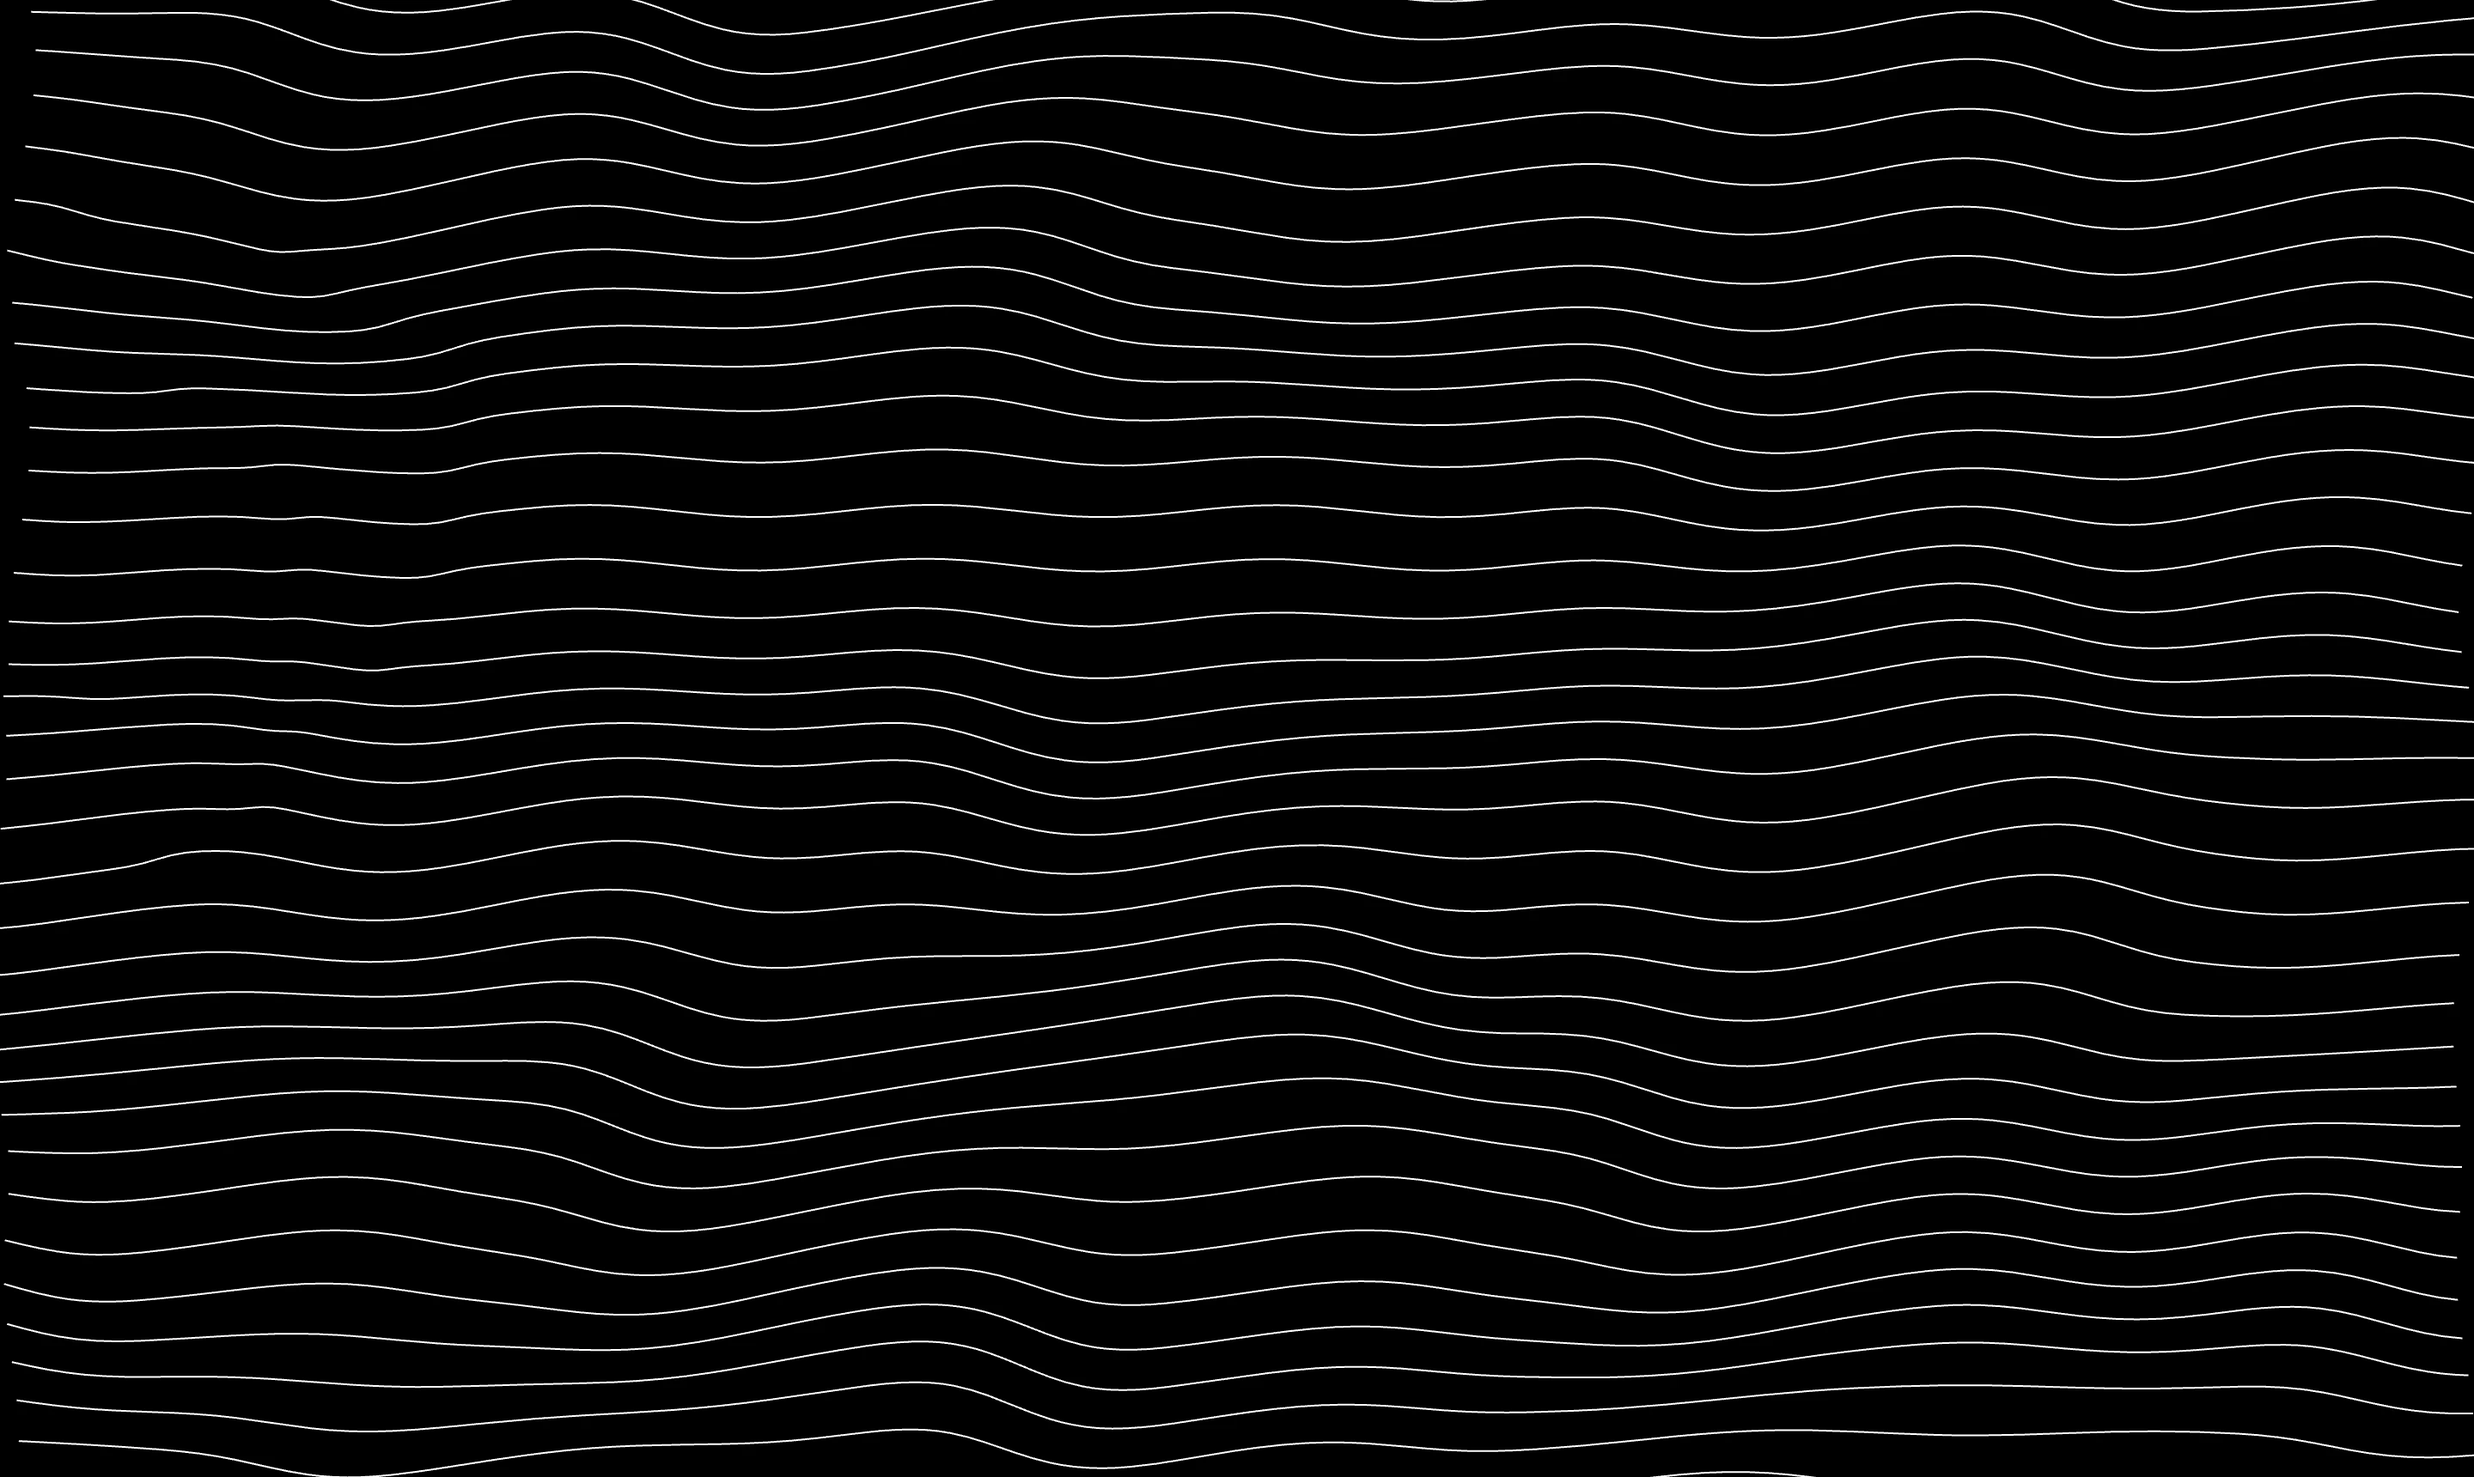
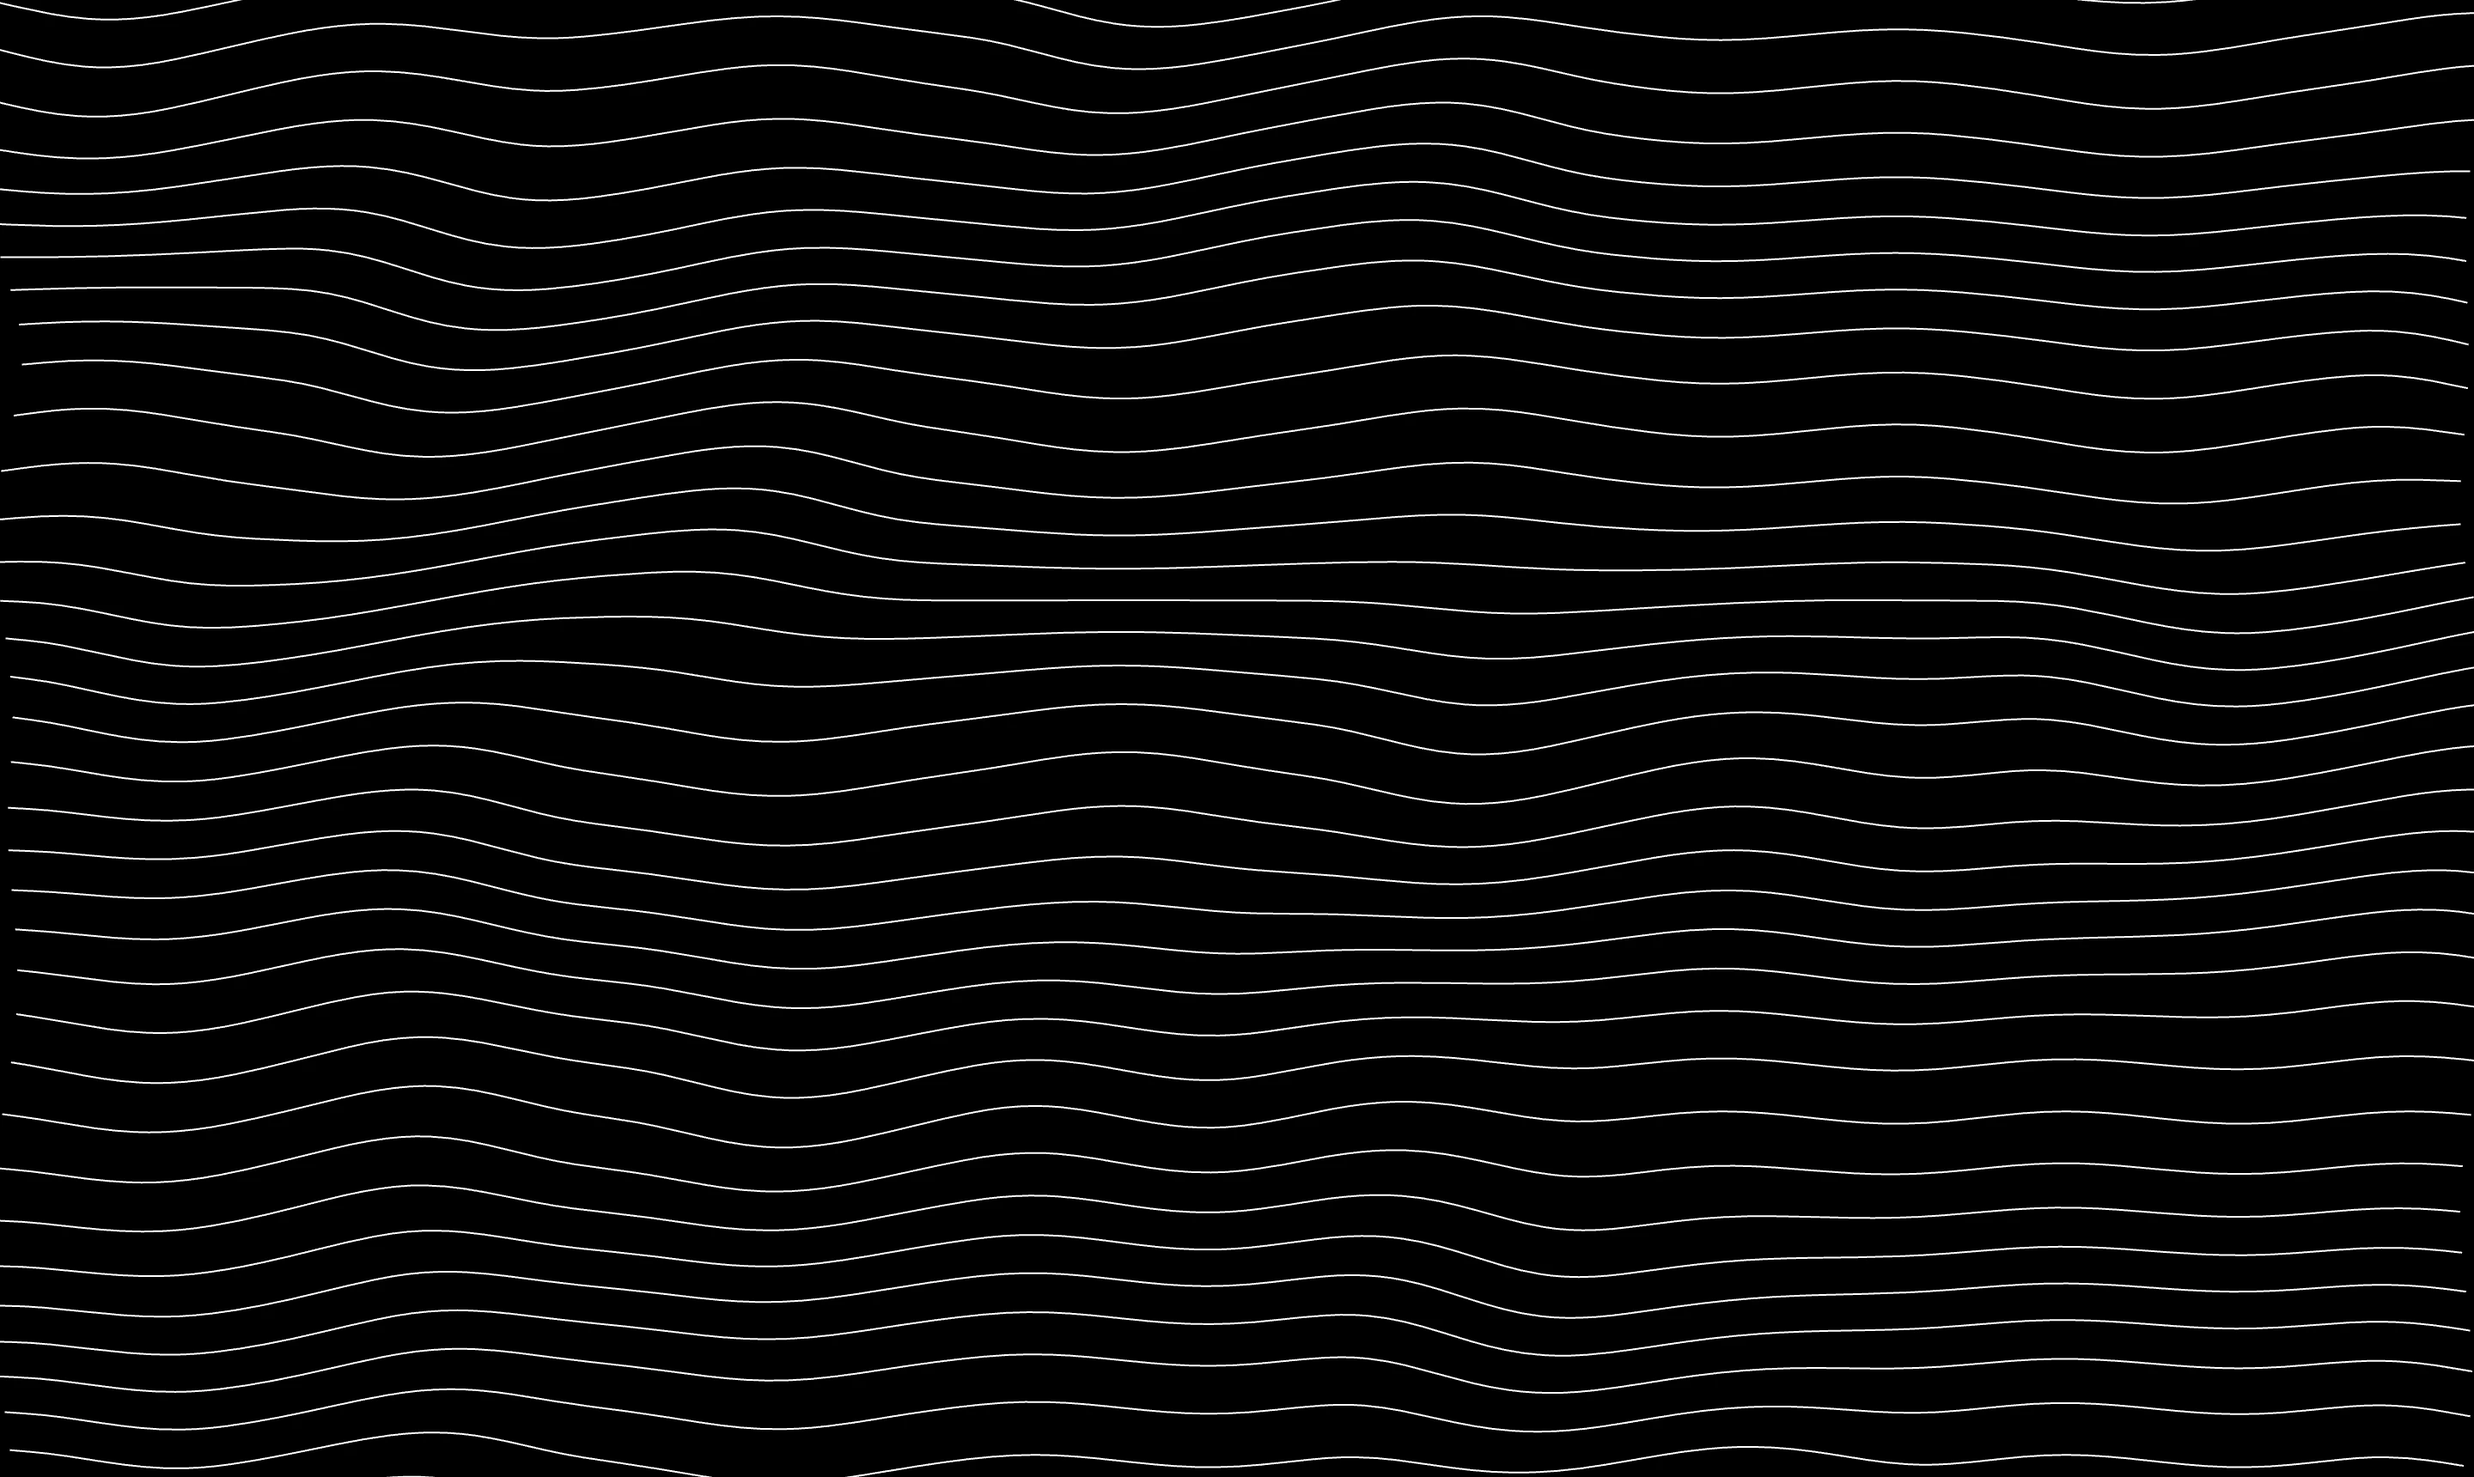
fix: Fluid Lines Mouse Interaction Fixed

diff --git a/backgrounds/fluid-lines/config.ts b/backgrounds/fluid-lines/config.ts
@@ -2,10 +2,10 @@ import { BackgroundConfig } from '@/lib/types';
 import { jsxCode, tsxCode, tsxCodeHTML, jsxCodeHTML, usageCodeHTML, usageCode } from './code'
 
 export default {
-  name: 'Fluid Lines',
-  description: 'A captivating animated background of glowing hexagon patterns that leave trailing marks as they dynamically evolve.',
+  name: 'Wavy Bent Lines',
+  description: 'An animated background featuring fluid, bent lines that undulate with wave-like motion, responding dynamically to mouse movements by contracting or diverging.',
   author: 'NetMods',
-  tags: ['animated', 'hexagons', 'glowing', 'patterns', 'trails', 'abstract', 'geometric'],
+  tags: ['animated', 'bent-lines', 'waves', 'fluid', 'motion', 'interactive', 'abstract', 'geometric'],
   defaultProps: {
     backgroundColor: '#000000',
     lineColor: '#FFFFFF',
@@ -31,14 +31,14 @@ export default {
       label: 'Background Color',
       type: 'color',
       defaultValue: '#000000',
-      description: 'The overall background color',
+      description: 'The overall background color of the canvas.',
     },
     {
       key: 'lineColor',
       label: 'Line Color',
       type: 'color',
       defaultValue: '#FFFFFF',
-      description: 'The overall Color of Lines',
+      description: 'The color of the bent lines in the animation.',
     },
     {
       key: 'gap',
@@ -48,19 +48,18 @@ export default {
       max: 200,
       step: 5,
       defaultValue: 25,
-      description: 'The number of lines in the canvas'
+      description: 'The spacing (gap) between the bent lines in the canvas.',
     },
     {
       key: 'radius',
-      label: 'Radius',
+      label: 'Bend Radius',
       type: 'slider',
       min: 50,
       max: 500,
       step: 10,
       defaultValue: 160,
-      description: 'The number of lines in the canvas'
+      description: 'The radius controlling the curvature and bend of the lines.',
     },
-
     {
       key: 'force',
       label: 'Force',
@@ -69,17 +68,17 @@ export default {
       max: 20,
       step: 1,
       defaultValue: 6,
-      description: 'The maximum number of lines active in the animation at any time.',
+      description: 'The intensity of the wave-like forces affecting line movement.',
     },
     {
       key: 'gravity',
       label: 'Gravity',
       type: 'slider',
-      min: 10,
-      max: 100,
-      step: 10,
-      defaultValue: 10,
-      description: 'The base timing factor influencing the speed of hexagon movements.',
+      min: 0,
+      max: 1,
+      step: 0.1,
+      defaultValue: 0.3,
+      description: 'The gravitational pull influencing the downward drift of the lines.',
     },
     {
       key: 'waveSpeed',
@@ -89,15 +88,15 @@ export default {
       max: 10000,
       step: 100,
       defaultValue: 8000,
-      description: 'Additional time variation applied to the animation cycles.',
+      description: 'The speed at which wave-like motions propagate through the lines.',
     },
     {
       key: 'mouseInteraction',
       label: 'Mouse Effect',
       type: 'select',
-      options: ['none', 'smear', 'converg', 'diverg'],
+      options: ['none', 'smear', 'converge', 'diverge'],
       defaultValue: 'smear',
-      description: 'The overall color palette applied to the particles and lines in the noise animation.',
+      description: 'The interaction mode for mouse movements: none (no effect), smear (blurring trail), converge (lines pull toward mouse), or diverge (lines push away from mouse).',
     },
     {
       key: 'effects',
@@ -105,7 +104,7 @@ export default {
       type: 'select',
       options: ['none', 'wind', 'waves'],
       defaultValue: 'wind',
-      description: 'The overall color palette applied to the particles and lines in the noise animation.',
+      description: 'Global animation effect: none (static), wind (gentle horizontal drift), or waves (undulating vertical motion).',
     },
   ],
 } as Omit<BackgroundConfig, 'id'>;

diff --git a/backgrounds/fluid-lines/index.tsx b/backgrounds/fluid-lines/index.tsx
@@ -52,7 +52,7 @@ interface PageProps {
   force?: number
   gravity?: number
   waveSpeed?: number
-  mouseInteraction?: "diverg" | "converg" | "smear" | "none"
+  mouseInteraction?: "diverge" | "converge" | "smear" | "none"
   effects?: "wind" | "waves" | "oregeny" | "none"
 }
 
@@ -194,12 +194,12 @@ const FluidLines = ({
           if (distance < radius) {
             const ratio = 1 - distance / radius
             switch (mouseInteraction) {
-              case "diverg":
+              case "diverge":
                 const ratio3 = Math.pow(ratio, 3)
                 point.vx += Math.sign(point.x - mouseX) * force * ratio3 * 0.1
                 point.vy += Math.sign(point.y - mouseY) * force * ratio3
                 break
-              case "converg":
+              case "converge":
                 const ratio2 = Math.pow(ratio, 2)
                 point.vx += (mouseX - point.x) * gravity * ratio2
                 point.vy += (mouseY - point.y) * gravity * ratio2
@@ -259,8 +259,8 @@ const FluidLines = ({
     animate()
 
     window.addEventListener('resize', resizeCanvas)
-    canvas.addEventListener('mousemove', setMouseMove)
-    canvas.addEventListener('mouseleave', setMouseLeave)
+    window.addEventListener('mousemove', setMouseMove)
+    window.addEventListener('mouseleave', setMouseLeave)
 
 
 
@@ -269,15 +269,11 @@ const FluidLines = ({
         cancelAnimationFrame(animationRef.current)
       }
       window.removeEventListener('resize', resizeCanvas)
-      canvas.removeEventListener('mousemove', setMouseMove)
-      canvas.removeEventListener('mouseleave', setMouseLeave)
+      window.removeEventListener('mousemove', setMouseMove)
+      window.removeEventListener('mouseleave', setMouseLeave)
     }
   }, [backgroundColor, lineColor, gap, radius, force, gravity, waveSpeed, mouseInteraction, effects]);
 
-  (async () => {
-    const { captureCanvasScreenshot } = await import('@/lib/utils');
-    await captureCanvasScreenshot(canvasRef, "fluid-lines.webp");
-  })()
 
   return (
     <canvas ref={canvasRef} />
